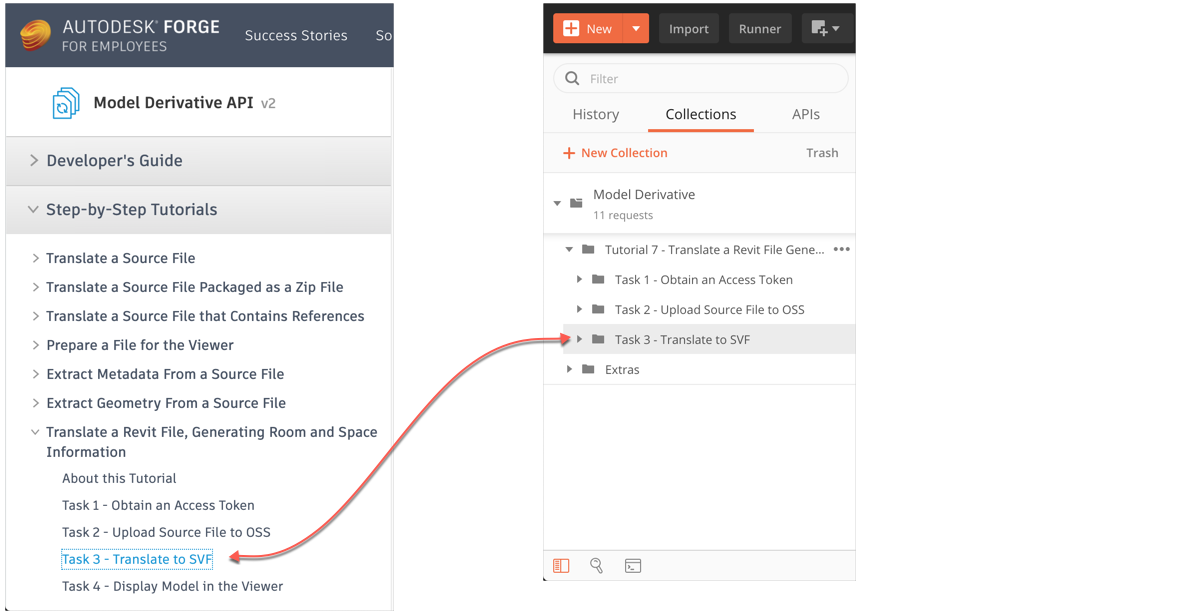
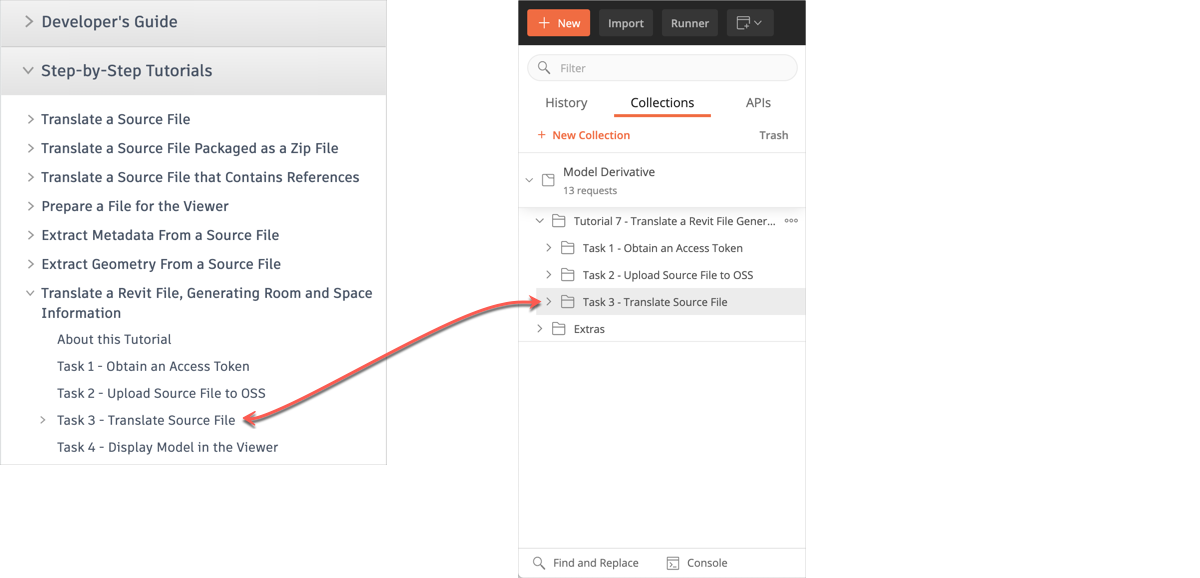
Updated images

diff --git a/ModelDerivative_07/instructions/task-3.md b/ModelDerivative_07/instructions/task-3.md
@@ -5,7 +5,7 @@ To display a model in the viewer, you must translate the model to a viewer-frien
 - The SVF format
 - The SVF2 format
 
-SVF is the format originally designed for the viewer. SVF2 format is an improved version of SVF. It is optimized for larger models so that they load faster at display time. However, translation to SVF2 can take longer than translation to SVF. For details refer [Displaying Models in a Browser](http://forge.autodesk.com) in the Model Derivative API Developer's Guide.
+SVF is the format originally designed for the viewer. The SVF2 format is an improved version of SVF. It is optimized for larger models so that they load faster at display time. However, translation to SVF2 can take longer than translation to SVF. For details refer [Displaying Models in a Browser](http://forge.autodesk.com) in the Model Derivative API Developer's Guide.
 
 
 To continue with this task, pick one of the following options:

diff --git a/ModelDerivative_07/instructions/task-3_op1.md b/ModelDerivative_07/instructions/task-3_op1.md
@@ -19,7 +19,7 @@ The translation job produces a manifest, which lists all the files that are gene
 
    ![Create translation job - Header tab](../images/task3-translation_job_header_tab_op1.png "Create translation job - Header tab")
 
-   Note the `x-ads-force` header parameter, which has been set to `true`. Setting this header parameter ensures that the derivatives produced by any previous translation job for this source file is removed. This setting is mandatory for generating master views
+   Note the `x-ads-force` header parameter, which has been set to `true`. Setting this header parameter ensures that the derivatives produced by any previous translation job for this source file are removed. This setting is mandatory for generating master views
 
 3. Click **Send**. If the request is successful you should see a screen similar to the following image.
 

diff --git a/ModelDerivative_07/instructions/task-3_op2.md b/ModelDerivative_07/instructions/task-3_op2.md
@@ -19,7 +19,7 @@ The translation job produces a manifest, which lists all the files that are gene
 
    ![Create translation job - Header tab](../images/task3-translation_job_header_tab_op2.png "Create translation job - Header tab")
 
-   Note the `x-ads-force` header parameter, which has been set to `true`. Setting this header parameter ensures that the derivatives produced by any previous translation job for this source file is removed. This setting is mandatory for generating master views
+   Note the `x-ads-force` header parameter, which has been set to `true`. Setting this header parameter ensures that the derivatives produced by any previous translation job for this source file are removed. This setting is mandatory for generating master views
 
 3. Click **Send**. If the request is successful you should see a screen similar to the following image.
 

diff --git a/ModelDerivative_07/instructions/before_you_begin.md b/ModelDerivative_07/instructions/before_you_begin.md
@@ -4,7 +4,7 @@
 
 Postman Collections are groups of prepopulated HTTP requests. They can also contain scripts that are executed when you send an HTTP request, and receive a response.
 
-Postman environments are named configurations that implement environment variables to store values you typically use across many HTTP requests. For example, this Postman Collection stores the Access Token, which is used across most HTTP requests, in a variable named `access_token`.
+Postman environments are named configurations that implement environment variables to store values you typically use across many HTTP requests. For example, this Postman Collection stores the Access Token, which is used across most HTTP requests, through a variable named `access_token`.
 
 To import the Postman Collection and environment you need for this tutorial:
 

diff --git a/ModelDerivative_07/instructions/task-2.md b/ModelDerivative_07/instructions/task-2.md
@@ -1,6 +1,6 @@
 # Task 2 - Upload Source File to OSS
 
-The Object Storage Service (OSS) is a generic Cloud Storage Service that is part of the Forge Data Management API. In this task, you upload a Revit file (*rme_advanced_sample_project.rvt*). This file is an MEP file that contains space and zone information. This file is available in the [*tutorial_data*](../tutorial_data) folder.
+The Object Storage Service (OSS) is a generic Cloud Storage Service that is part of the Forge Data Management API. In this task, you upload a Revit file (*rme_advanced_sample_project.rvt*) to OSS. This file is an MEP file that contains space and zone information. This file is available in the [*tutorial_data*](../tutorial_data) folder.
 
 ## Create a Bucket
 
